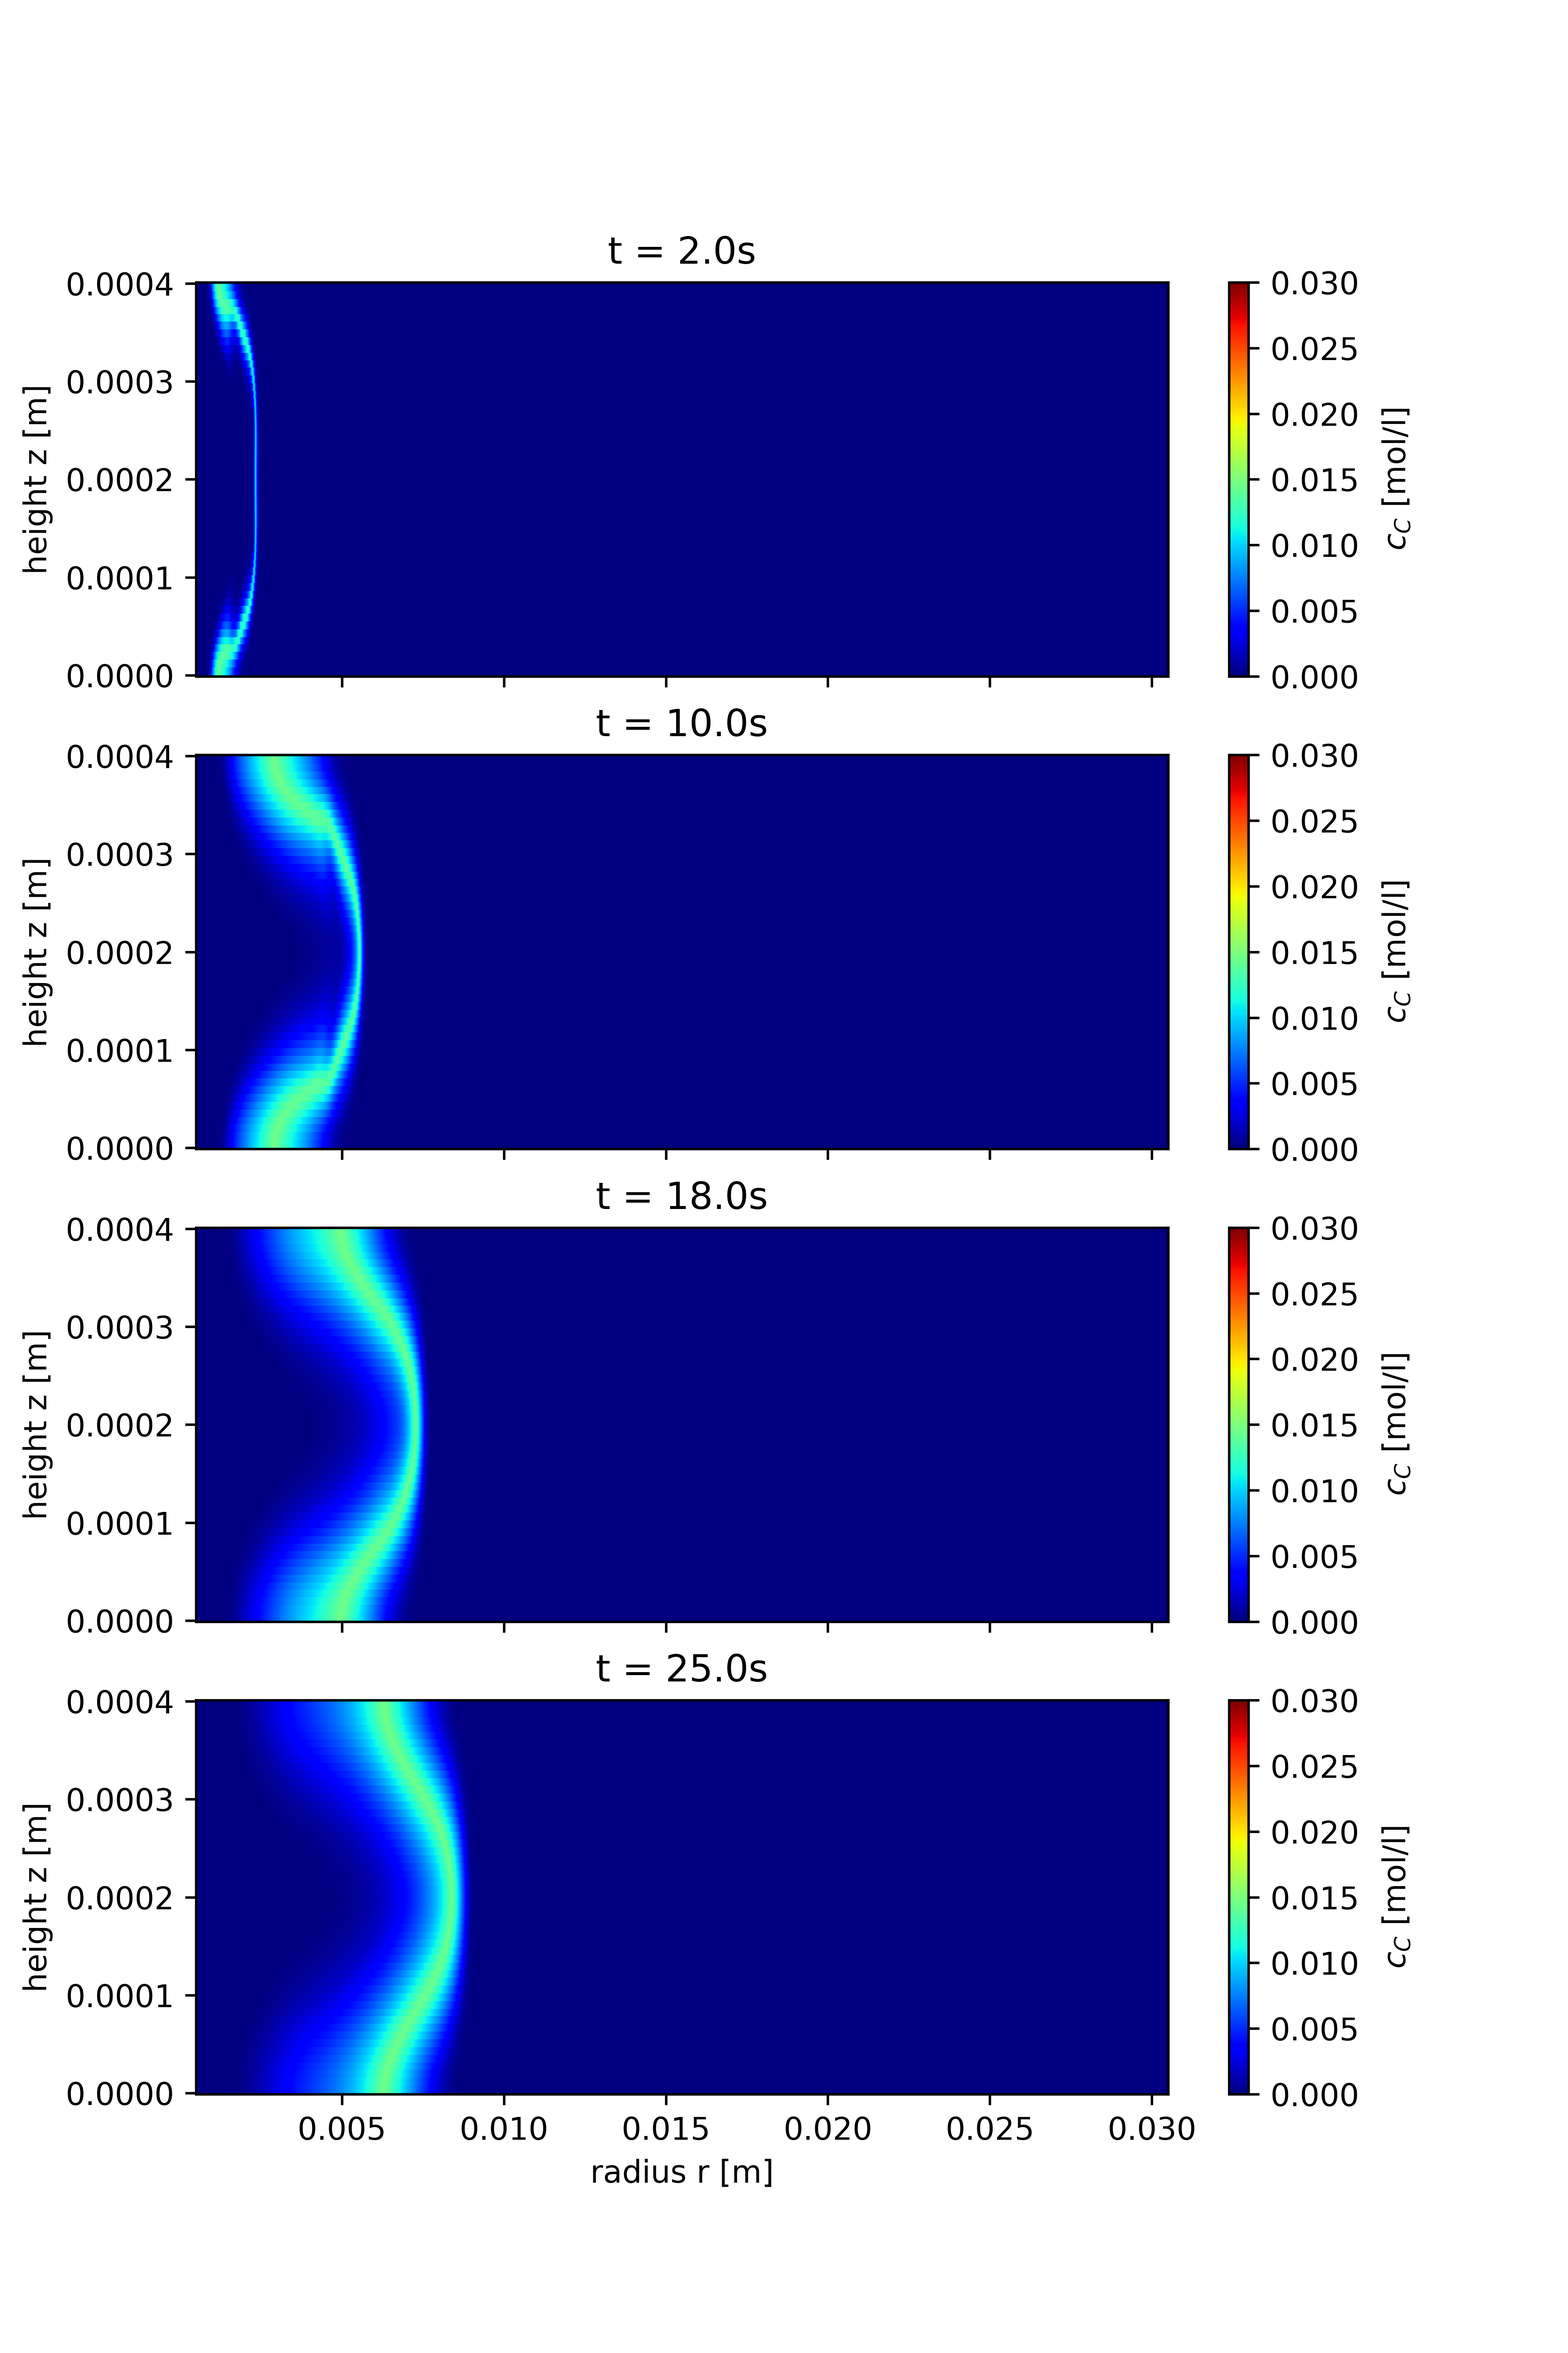
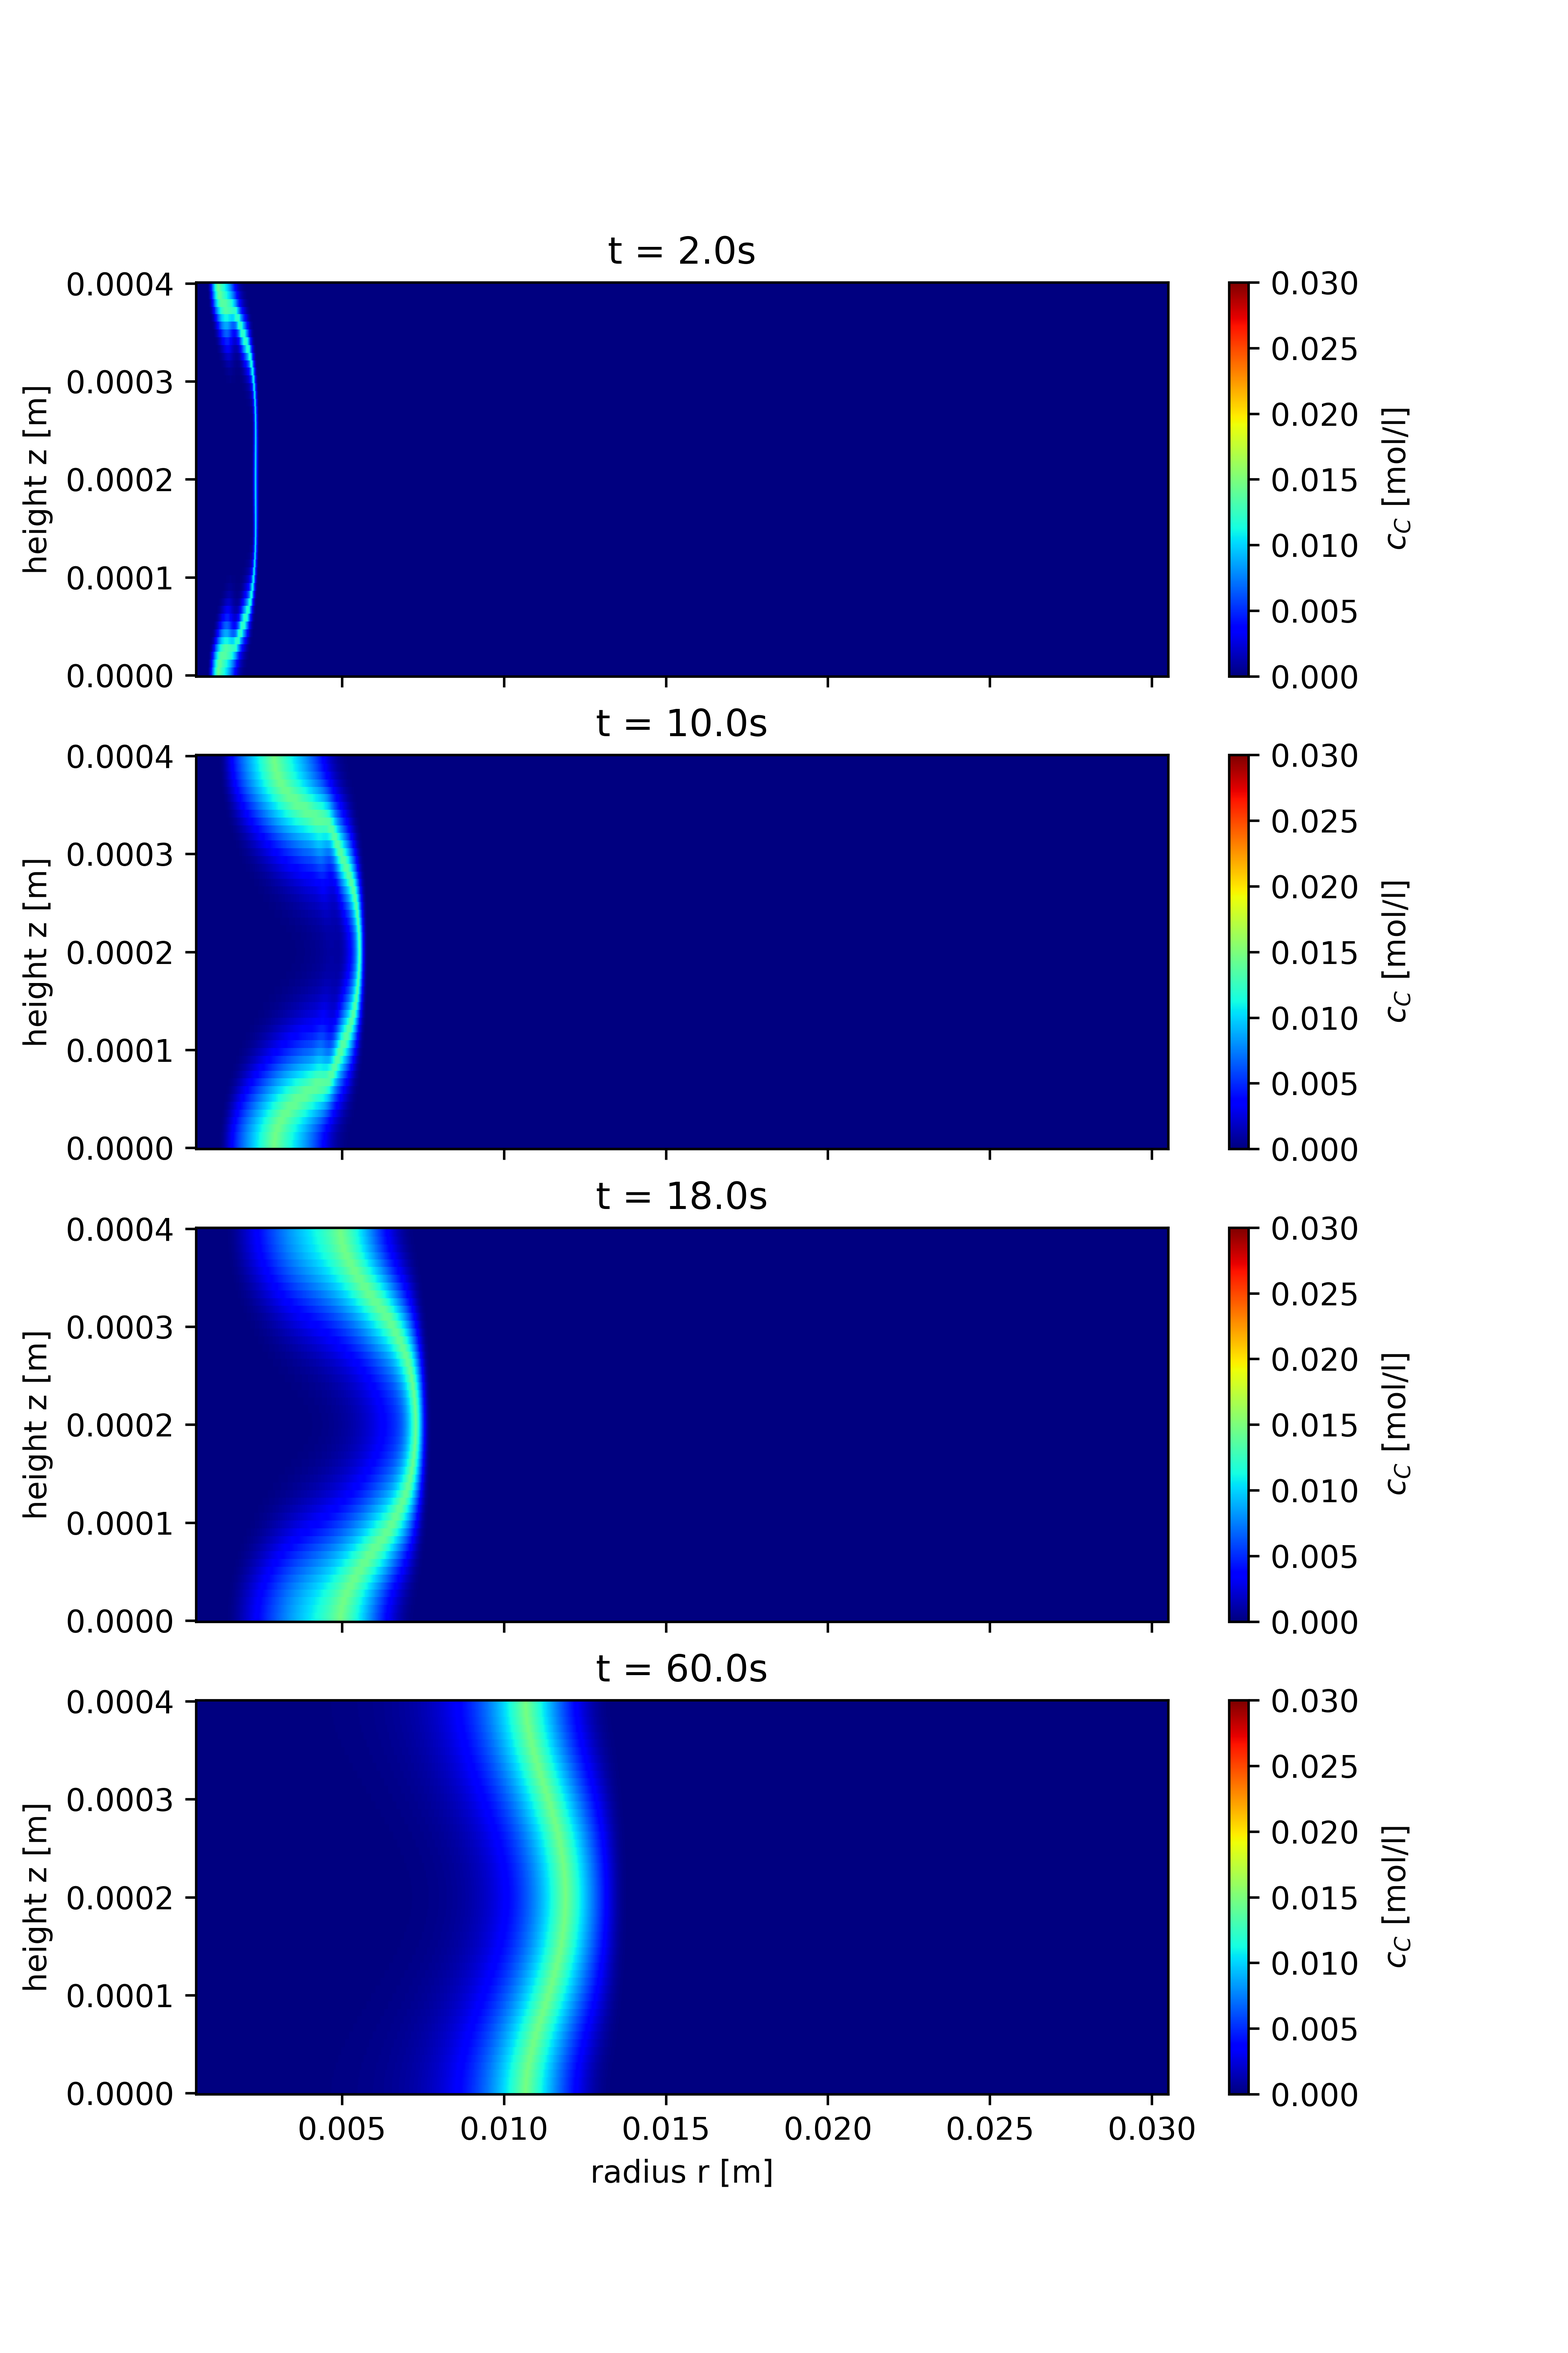
changed things

Changed region(s): [[0.156, 0.7156, 0.4055, 0.9022]]

diff --git a/Latex/tex/04-parameter_study.tex b/Latex/tex/04-parameter_study.tex
@@ -55,8 +55,17 @@ The width at the reactors middle height shows a different behaviour. It's growth
 When the front reaches the shown shape the difference between the width using the FWHM method and the middle with decreases. The difference can only reach a value of 0 for a reactor with an infinite radius at an infinite timestamp. The effect is clearly visible even on small timescales of just 60 seconds if the Schmidt-Number is low enough.
 
 When comparing both Schmidt-Numbers with each over it can be observed that the final width value for both widths seems to be independent of the Schmidt-Number for the gap height of 0.2mm. The results from the 0.4mm case also support this thesis. To get clearer evidence if the claim is correct more Schmidt-Numbers need to be investigated and the simulations should be run for longer durations. Another observation that can be made is that the time the width reaches it's maximum value and the value itself is strongly influenced by the Schmidt-Number. For the lower Schmidt-Number of 2430 a clear peak is visible for all Peclet-Numbers looked at. This peak forming seems to be expected because as the diffusion coefficient for the case with the higher Schmidt-Number (12000) is lower than the one for the lower Schmidt-Number (2430). A lower diffusion coefficient prevents the front from spreading so the width reaches higher values.
+\newline
 
-The results for the case with a gap height of 0.4mm shows a similar behaviour compared to the case with a gap height of 0.2mm. For this geometry the FWHM width also follows a square root like approach for a high Schmidt-Number and for the lower one a peak can be observed as well. The peak is not that sharp and only visible for a Peclet-Number of 2050. The other Peclet-Numbers seem to behave similar to the cases with a gap height of 0.2mm and a Schmidt-Number of 12000. For a gap height of 0.4mm the input velocity seems only to be high enough for the highest Peclet-Number to form a clearly visible peak within the widths plot. The width seems to reach it's highest value in this case when the initial two different peaks merge into one which can be seen in \autoref{fig: pos_h4_peaks}.
+The results for the case with a gap height of 0.4mm show a similar behaviour compared to the case with a gap height of 0.2mm. The results are shown in \autoref{fig: front_width_h4_Sc12000} and \autoref{fig: front_width_pos_h4_Sc2430}.
+\begin{figure}[htbp]
+	\centering
+	\includegraphics[width=.9\linewidth]{front_width_h4_Sc12000}
+	\caption{front widths for h 0.4mm Sc 12000\label{fig: front_width_h4_Sc12000}}\bigskip
+	\includegraphics[width=.9\linewidth]{front_width_h4_Sc2430}
+	\caption{front widths for h 0.4mm Sc 2430\label{fig: front_width_pos_h4_Sc2430}}
+\end{figure}
+ For this geometry the FWHM width also follows a square root like approach for a high Schmidt-Number and for the lower one a peak can be observed. The peak is not that sharp as the one observed in the 0.2mm case and only visible for a Peclet-Number of 2050. The other Peclet-Numbers seem to behave similar to the cases with a gap height of 0.2mm and a Schmidt-Number of 12000. For a gap height of 0.4mm the input velocity seems to only be high enough for the highest Peclet-Number to form a clearly visible peak within the widths plot. The width seems to reach it's highest value in this case when the initial two different peaks visible within the concentration plots merge into one which can be seen in \autoref{fig: pos_h4_peaks}. Up to a time of around 18 seconds two peaks can be distinguished within the product concentration plots. 
 \begin{figure}[htb]
 	\centering
 	\subfloat[\centering gap averaged concentrations]{{\includegraphics[angle=0, scale=0.41]{plot_h4r3_P205E3_S243E3_concentration-fluid_a_concentration-fluid_b_concentration-fluid_c} }}%
@@ -65,16 +74,9 @@ The results for the case with a gap height of 0.4mm shows a similar behaviour co
 	\caption{field and averaged concentration values for h0.4mm Pe2050 Sc2430}%
 	\label{fig: pos_h4_peaks}%
 \end{figure}
+At that time the front shape has reached it's maximum curvedness. For the shown example that happens at around 18 seconds after the simulation has been started. Within the gap averaged plot it can be seen that there is a sharp increase at the fronts front and a slow decline at it's back. This decline lowers when comparing the plots for a time of 18 seconds with the one at 60 seconds. The decline can be explained by the curvedness of the front as visible in the product concentration fields plot.
 
-At that time the front shape has reached it's maximum curvedness.
 
-\begin{figure}[htbp]
-	\centering
-	\includegraphics[width=.9\linewidth]{front_width_h4_Sc12000}
-	\caption{front widths for h 0.4mm Sc 12000\label{fig: front_width_h4_Sc12000}}\bigskip
-	\includegraphics[width=.9\linewidth]{front_width_h4_Sc2430}
-	\caption{front widths for h 0.4mm Sc 2430\label{fig: front_width_pos_h4_Sc2430}}
-\end{figure}
 
 \begin{figure}[htbp]
 	\centering

diff --git a/Latex/tex/03-model.tex b/Latex/tex/03-model.tex
@@ -426,20 +426,16 @@ All values needed are accessible with these tables but for further analysis the 
 	\caption{example field representation (velocity field) of model results}
 	\label{fig: field_example}
 \end{figure}
-These can be created for all exported variables. Within the example shown the field is created for the velocity magnitude but the variable of most interest is the product concentration. A field example for this variable is shown in \autoref{fig: c_prod_examp} for 3 different time steps.
-\begin{figure}[htbp]
+These can be created for all exported variables. Within the example shown the field is created for the velocity magnitude but the variable of most interest is the product concentration. A field example for this variable is shown in \autoref{fig: c_plot_prod_example} for 3 different time steps.
+\begin{figure}[htb]
 	\centering
-	\includegraphics[width=\textwidth]{c_prod_example}
-	\caption{example product concentration fields}
-	\label{fig: c_prod_examp}
+	\subfloat[\centering gap averaged concentrations]{{\includegraphics[angle=0, scale=0.41]{plot_h4r3_P931E2_S120E4_concentration-fluid_a_concentration-fluid_b_concentration-fluid_c} }}%
+	\qquad
+	\subfloat[\centering product concentration fields]{{\includegraphics[angle=0, scale=0.41]{field_h4r3_P931E2_S120E4_concentration-fluid_c} }}%
+	\caption{field and averaged concentration example}%
+	\label{fig: c_plot_prod_example}%
 \end{figure}
-With these fields the product's concentration can be averaged over the hole gap height. This step is done to get a comparable post-processing step to the image processing done on the experimental data sets. The resulting plots from the previous example can be seen in \autoref{fig: c_plot_examp}.
-\begin{figure}[htbp]
-	\centering
-	\includegraphics[width=\textwidth]{c_plot_example}
-	\caption{example gap averaged product concentration plots}
-	\label{fig: c_plot_examp}
-\end{figure}
+With these fields the product's concentration can be averaged over the hole gap height. This step is done to get a comparable post-processing step to the image processing done on the experimental data sets. The resulting plots from the previous example can be seen in the same figure as the field example.
 
 With the fields and the gap averaged concentration values computed the parameters of interest can be calculated which is explained within the following sections.
 

diff --git a/Software/python/transient_field.py b/Software/python/transient_field.py
@@ -643,7 +643,7 @@ class flowfield:
                   
                 # title = "front_width" 
                 fig, axs = plt.subplots(1, 1, sharex=True, sharey=True, figsize=(6.5,4.5))
-                fig.suptitle(title)
+                # fig.suptitle(title)
                 
 
                 if use_exp:
@@ -1064,6 +1064,7 @@ class flowfield:
                         if idx == len(plots)-1 :
                             axs[idx].set_xlabel("radius r [m]")
                         axs[idx].set_ylabel(config["plot_conf"]["y_label"])
+                        axs[idx].set_xlim(min(tmp_data["r [m]"]), max(tmp_data["r [m]"]))
                         axs[idx].legend(legend)
                         export_times = cases_cfg[cas]["export_times"]
                         if export_times != "flow_time":
@@ -1082,6 +1083,7 @@ class flowfield:
 
                         axs.set_xlabel("radius r [m]")
                         axs.set_ylabel(config["plot_conf"]["y_label"])
+                        axs.set_xlim(min(tmp_data["r [m]"]), tmp_data["r [m]"][-3])
                         axs.legend(legend)
                         if export_times != "flow_time":
                             axs.set_title("t = {}s".format(round(ele * cases_cfg["timestep"],1)))
